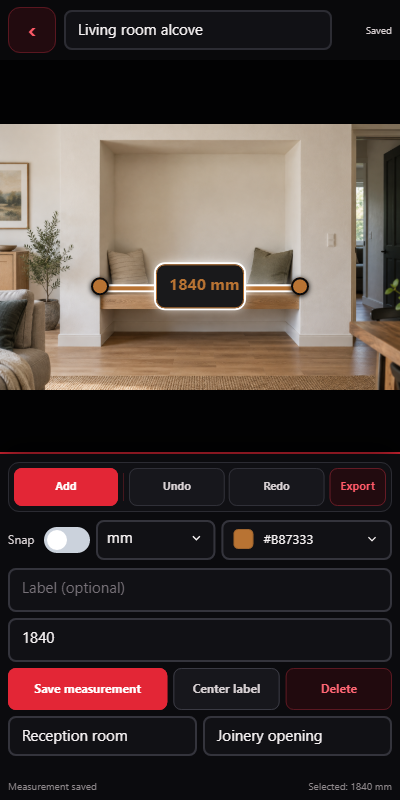
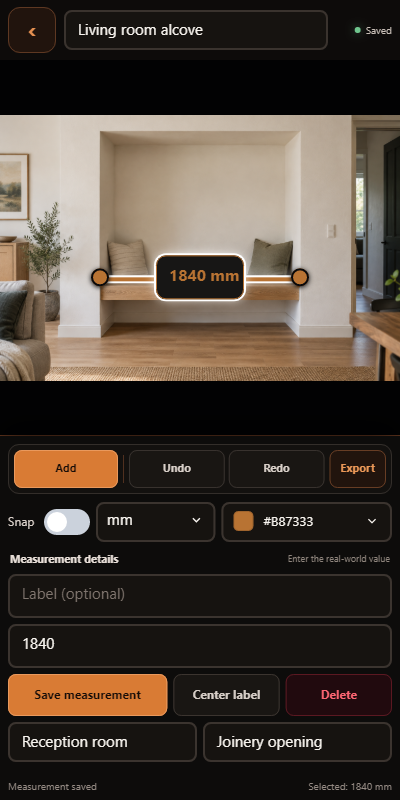
Polish UI and prepare 0.2.0 alpha

diff --git a/src/AnnoTape.App/Assets/AnnoTape.css b/src/AnnoTape.App/Assets/AnnoTape.css
@@ -1,62 +1,67 @@
 * { box-sizing:border-box; }
 body {
-  margin:0; background:#050506; color:#f7f3f4; font-family:sans-serif;
-  --cupri-accent:#e32636; --cupri-surface:#111115; --cupri-border:#34343c;
-  --cupri-text:#f7f3f4; --cupri-muted:#9f989b; --cupri-hover:#251014;
+  margin:0; background:#070605; color:#f8f4ef; font-family:"Segoe UI",sans-serif;
+  --cupri-accent:#d87932; --cupri-surface:#151311; --cupri-border:#3b342f;
+  --cupri-text:#f8f4ef; --cupri-muted:#aaa19a; --cupri-hover:#2a1b12;
 }
-.app { width:100%; min-height:100vh; background:#050506; }
+.app { width:100%; min-height:100vh; background:#070605; }
 
 /* Home */
-.home { min-height:100vh; flex-direction:column; align-items:center; padding:24px 18px 16px; gap:18px; }
+.home { min-height:100vh; flex-direction:column; align-items:center; padding:26px 18px 18px; gap:16px; background:#070605; }
 .home > .brand,.home > .hero,.home > .recent,.home > .privacy { width:100%; max-width:520px; }
-.brand { display:flex; align-items:center; justify-content:center; gap:13px; }
+.brand { display:flex; align-items:center; justify-content:flex-start; gap:13px; padding:0 4px; }
 .brand h1 { margin:0; font-size:27px; line-height:1; }
-.brand span { color:#9f989b; font-size:12px; }
+.brand span { color:#a89f98; font-size:11px; }
 .mark {
-  width:48px; height:48px; border-radius:13px;
-  box-shadow:0 8px 24px #e3263640;
+  width:48px; height:48px; border-radius:14px; border:1px solid #59301f;
+  box-shadow:0 8px 24px #b85b273d;
 }
 .hero {
-  display:flex; flex-direction:column; align-items:stretch; gap:11px; padding:22px 18px; border-radius:18px;
-  background:#0d0d10; border:1px solid #3b171c; box-shadow:0 14px 32px #00000066;
+  display:flex; flex-direction:column; align-items:stretch; gap:11px; padding:23px 18px 17px; border-radius:20px;
+  background:#12100f; border:1px solid #4a2a1c; box-shadow:0 16px 36px #00000070;
 }
-.eyebrow { color:#ff4656; font-size:10px; font-weight:bold; text-align:center; }
+.eyebrow { color:#e99450; font-size:9px; font-weight:bold; text-align:center; }
 .hero h2 { margin:0; font-size:30px; line-height:1.08; text-align:center; }
-.hero p { color:#aaa3a5; line-height:1.42; margin:0 0 7px; text-align:center; }
+.hero p { color:#b8afa8; line-height:1.46; margin:0 0 7px; text-align:center; }
 cupri-button { min-height:48px; }
 .button-label { display:block; white-space:nowrap; }
-.home .cupri-button { display:flex; align-items:center; justify-content:center; text-align:center; border-radius:11px; }
-.primary { background:#e32636; color:#fff; box-shadow:0 7px 18px #e3263638; }
+.home .cupri-button { display:flex; align-items:center; justify-content:center; text-align:center; border-radius:12px; }
+.primary { background:#db7d35; border-color:#e79655; color:#190e08; box-shadow:0 8px 20px #b95c2938; }
+.home .pick-photo { background:#191512; border-color:#60402d; color:#efb17c; }
+.hero-notes { display:flex; align-items:center; justify-content:center; gap:15px; margin-top:2px; color:#8e8279; font-size:8px; font-weight:bold; }
 .recent {
-  display:flex; flex-direction:column; gap:8px; padding:16px; border-radius:15px;
-  background:#0b0b0e; border:1px solid #242429;
+  display:flex; flex-direction:column; gap:9px; padding:16px; border-radius:16px;
+  background:#0e0d0c; border:1px solid #2f2a27;
 }
 .section-title { display:flex; align-items:center; justify-content:space-between; }
-.section-title span { color:#e32636 !important; font-size:9px !important; font-weight:bold; white-space:nowrap; }
+.section-title span { color:#d88a4f !important; font-size:9px !important; font-weight:bold; white-space:nowrap; }
 .recent > span { text-align:center; }
 .recent-row {
-  min-height:50px; display:flex; flex-direction:column; justify-content:center; padding:8px 11px;
-  border-radius:9px; background:#151519; border:1px solid #4b1a20;
+  min-height:54px; display:flex; flex-direction:row; align-items:center; justify-content:space-between; gap:12px; padding:9px 12px;
+  border-radius:11px; background:#181512; border:1px solid #4d3324;
 }
-.recent span,.privacy { color:#969093; font-size:12px; }
-.privacy { margin-top:auto; text-align:center; }
+.recent-copy { min-width:0; display:flex; flex-direction:column; gap:2px; }
+.recent-open { flex:none; color:#dd9155 !important; font-size:10px !important; font-weight:bold; }
+.recent span,.privacy { color:#9e958e; font-size:12px; }
+.privacy { margin-top:auto; text-align:center; font-size:11px; }
 
 /* Editor */
-.editor { position:relative; width:100%; height:100vh; flex-direction:column; overflow:scroll; background:#050506; }
-header {
+.editor { position:relative; width:100%; height:100vh; flex-direction:column; overflow:scroll; background:#050403; }
+.topbar {
   height:60px; min-height:60px; display:flex; align-items:center; gap:8px; padding:7px 8px;
-  background:#09090b; box-shadow:0 2px 0 #e32636;
+  background:#0d0b0a; box-shadow:0 1px 0 #6d3b21,0 7px 20px #00000070;
 }
 .title { flex:1; min-width:80px; }
-header .cupri-textfield { background:#111115; border-color:#2c2c33; }
-.save-state { font-size:10px; color:#d7cfd1; width:52px; text-align:right; white-space:nowrap; }
+.topbar .cupri-textfield { background:#161310; border-color:#3a332e; }
+.save-state { width:56px; display:flex; align-items:center; justify-content:flex-end; gap:5px; color:#c8bfb7; font-size:10px; white-space:nowrap; }
+.save-indicator { width:6px; height:6px; border-radius:3px; background:#6fc58d; box-shadow:0 0 8px #6fc58d70; }
 .stage { position:relative; flex:1; min-height:80px; background:#020203; overflow:hidden; }
 .empty {
   position:absolute; left:0; top:0; width:100%; height:100%; padding:24px; flex-direction:column;
   align-items:center; justify-content:center; gap:7px; color:#aaa3a5; text-align:center;
 }
-.empty b { width:100%; color:#f7f3f4; font-size:18px; text-align:center; }
-.empty span { width:100%; color:#8f898c; font-size:12px; text-align:center; }
+.empty b { width:100%; color:#f8f4ef; font-size:19px; text-align:center; }
+.empty > span { width:100%; color:#9d948d; font-size:12px; text-align:center; }
 .empty-illustration { flex:none; width:130px; height:76px; margin-bottom:4px; }
 .empty-actions { width:72%; display:flex; flex-direction:column; gap:9px; margin-top:10px; }
 .empty-actions .cupri-button { display:flex; align-items:center; justify-content:center; text-align:center; }
@@ -70,75 +75,79 @@ header .cupri-textfield { background:#111115; border-color:#2c2c33; }
   position:absolute; left:13px; top:13px; width:18px; height:18px; border-radius:9px;
   background:#b87333; border:2px solid #09090b; box-shadow:0 1px 5px #000;
 }
-.measure-label { position:absolute; min-height:44px; min-width:44px; padding:9px 12px; border-radius:9px; background:#09090bee; color:#b87333; font-weight:bold; white-space:nowrap; border:1px solid #b87333; }
+.measure-label { position:absolute; min-height:44px; min-width:44px; padding:9px 12px; border-radius:10px; background:#0b0908f2; color:#b87333; font-weight:bold; white-space:nowrap; border:1px solid #b87333; box-shadow:0 4px 14px #00000099; }
 .dimension-line.selected { box-shadow:0 0 0 2px #fff,0 0 12px #fff; }
 .measure-label.selected { box-shadow:0 0 0 2px #fff,0 0 12px #fff; }
 
 /* Compact editor dock */
 .inspector {
   height:198px; min-height:198px; display:flex; flex-direction:column; gap:6px; padding:8px;
-  background:#0b0b0e; box-shadow:0 -2px 0 #e32636, 0 -10px 28px #0000008c;
+  background:#0d0c0b; box-shadow:0 -1px 0 #6d3b21, 0 -12px 30px #00000099;
 }
 .inspector.empty-project { height:96px; min-height:96px; }
-.inspector.has-selection { height:346px; min-height:346px; }
-.tools,.draw-options,.snap-option,.selection,.selection-label,.selection-value,.selection-actions,.status-row { display:flex; align-items:center; gap:6px; }
+.inspector.has-selection { height:364px; min-height:364px; }
+.tools,.draw-options,.snap-option,.selection,.selection-heading,.selection-label,.selection-value,.selection-actions,.status-row { display:flex; align-items:center; gap:6px; }
 .tools { width:100%; }
 .draw-options { width:100%; min-height:44px; }
-.snap-option { flex:none; min-width:82px; color:#d8d1d3; font-size:12px; }
+.snap-option { flex:none; min-width:82px; color:#d9d0c9; font-size:12px; }
 .snap-option span { flex:1; }
 .global-unit { flex:0.7; width:0; min-width:0; }
 .global-unit .cupri-select-trigger { width:100%; min-width:0; min-height:40px; padding:7px 9px; }
 .line-colour { flex:1; width:0; min-width:0; }
-.line-colour .cupri-color-trigger { width:100%; min-width:0; min-height:40px; padding:7px 10px; background:#111115; border-color:#34343c; }
+.line-colour .cupri-color-trigger { width:100%; min-width:0; min-height:40px; padding:7px 10px; background:#161310; border-color:#3b342f; }
 .selection { width:100%; flex-direction:column; align-items:stretch; }
+.selection-heading { width:100%; min-height:18px; justify-content:space-between; padding:0 2px; }
+.selection-heading b { color:#e8dfd8; font-size:11px; }
+.selection-heading span { color:#8f857d; font-size:9px; }
 .selection-label,.selection-value,.selection-actions { width:100%; }
 .details { display:flex; gap:6px; }.details cupri-textfield { flex:1; min-width:80px; }
-.cupri-textfield,.cupri-select-trigger { background:#111115; border-color:#34343c; color:#f7f3f4; }
-.cupri-tf-ph { color:#777178; }
-.cupri-select-list { background:#111115; border-color:#34343c; }
+.cupri-textfield,.cupri-select-trigger { background:#161310; border-color:#3b342f; color:#f8f4ef; }
+.cupri-tf-ph { color:#80766f; }
+.cupri-select-list { background:#161310; border-color:#3b342f; }
 .back-home.cupri-button {
   flex:none; width:48px; height:46px; min-height:46px; padding:0; border-radius:12px;
-  display:flex; align-items:center; justify-content:center; background:#220b0f; border:1px solid #5a1720;
-  color:#ff5967; font-size:24px; box-shadow:none;
+  display:flex; align-items:center; justify-content:center; background:#21140d; border:1px solid #5e3822;
+  color:#e79151; font-size:24px; box-shadow:none;
 }
 .tools.cupri-toolbar {
   width:100%; min-width:0; padding:5px; gap:5px; border-radius:11px;
-  background:#101014; border:1px solid #2b2b32;
+  background:#13110f; border:1px solid #332e2a;
 }
 .tools .cupri-toolbar-group { min-width:0; gap:4px; }
 .tools .history-tools { flex:1; }
-.tools .tool-divider { width:1px; height:28px; margin:3px 0; background:#45171d; }
+.tools .tool-divider { width:1px; height:28px; margin:3px 0; background:#50301f; }
 .tools .cupri-button {
   min-width:0; min-height:38px; padding:11px 10px 5px; border-radius:8px; display:flex;
   align-items:center; justify-content:center; font-size:11px; text-align:center; white-space:nowrap; box-shadow:none;
 }
-.tools .add-measurement { min-width:82px; background:#e32636; border:1px solid #e32636; color:#fff; }
-.tools .add-measurement.active { background:#ff3347; border-color:#ff6673; box-shadow:0 0 0 2px #ff334733; }
-.tools .history-tools .cupri-button { flex:1; background:#17171c; border:1px solid #303038; color:#d8d1d3; }
-.tools .open-export { background:#220b0f; border:1px solid #651b25; color:#ff5967; }
+.tools .add-measurement { min-width:82px; background:#d97b34; border:1px solid #e9995d; color:#190e08; }
+.tools .add-measurement.active { background:#ed9550; border-color:#ffc08a; box-shadow:0 0 0 2px #ed955033; }
+.tools .history-tools .cupri-button { flex:1; background:#191613; border:1px solid #38322e; color:#d8cfc8; }
+.tools .open-export { background:#21140d; border:1px solid #673d24; color:#eb9857; }
 .label-input { flex:1; width:0; min-width:0; }.value-input { flex:1; width:0; min-width:0; }
 .selection-label .cupri-textfield,.selection-value .cupri-textfield,.selection-value .cupri-select-trigger { min-height:44px; }
 .unit-input .cupri-select-trigger { width:100%; min-width:0; }
 .selection-actions .cupri-button { min-height:42px; padding:13px 8px 7px; display:flex; align-items:center; justify-content:center; font-size:12px; text-align:center; }
-.selection-actions .save-value { flex:1.6; background:#e32636; border:1px solid #e32636; color:#fff; }
-.selection-actions .center-label { flex:1; min-width:0; background:#17171c; border:1px solid #3a3a43; color:#d8d1d3; }
+.selection-actions .save-value { flex:1.6; background:#d97b34; border:1px solid #e9995d; color:#190e08; }
+.selection-actions .center-label { flex:1; min-width:0; background:#191613; border:1px solid #3b342f; color:#d8cfc8; }
 .selection-actions .delete-measurement { flex:1; background:#210a0e; border:1px solid #5b1821; color:#ff6673; }
 .status-row { min-width:0; margin-top:auto; }
-.status,.selection-summary { color:#8f898c; font-size:10px; white-space:nowrap; overflow:hidden; }
+.status,.selection-summary { color:#958b84; font-size:10px; white-space:nowrap; overflow:hidden; }
 .status { flex:1; min-width:0; }.selection-summary { flex:none; text-align:right; }
 
 /* Export bottom sheet uses CupriFace's shelf overlay. */
-.export-shelf .cupri-shelf-panel { background:#0d0d10; box-shadow:0 -1px 0 #521820, 0 -18px 48px #000000cc; }
+.export-shelf .cupri-shelf-panel { background:#100e0d; box-shadow:0 -1px 0 #63371f, 0 -18px 48px #000000cc; }
 .export-shelf .cupri-shelf-inner { padding:14px 18px 24px; }
 .export-shelf .cupri-shelf-griprow { margin-bottom:12px; }
-.export-shelf .cupri-shelf-grip { background:#5b3035; }
-.shelf-title { color:#f7f3f4; font-size:22px; font-weight:bold; text-align:center; }
-.shelf-copy { margin-top:5px; color:#9f989b; font-size:12px; text-align:center; }
-.export-resolution,.export-destination { min-height:54px; margin-top:14px; padding:8px 11px; display:flex; align-items:center; justify-content:space-between; gap:12px; border:1px solid #34343c; border-radius:10px; background:#111115; }
+.export-shelf .cupri-shelf-grip { background:#70432a; }
+.shelf-eyebrow { color:#dc8847; font-size:9px; font-weight:bold; text-align:center; }
+.shelf-title { margin-top:4px; color:#f8f4ef; font-size:22px; font-weight:bold; text-align:center; }
+.shelf-copy { margin-top:5px; color:#aaa19a; font-size:12px; text-align:center; }
+.export-resolution,.export-destination { min-height:54px; margin-top:14px; padding:8px 11px; display:flex; align-items:center; justify-content:space-between; gap:12px; border:1px solid #3b342f; border-radius:11px; background:#161310; }
 .export-destination { margin-top:8px; }
 .export-resolution > div,.export-destination > div { display:flex; flex-direction:column; gap:3px; }
 .export-resolution b,.export-destination b { font-size:12px; }
-.export-resolution span,.export-destination span { color:#9f989b; font-size:10px; }
+.export-resolution span,.export-destination span { color:#9e958e; font-size:10px; }
 .export-resolution .cupri-switch,.export-destination .cupri-switch { flex:none; }
 .export-options { display:flex; gap:10px; margin-top:10px; }
 .export-option.cupri-button {
@@ -146,11 +155,13 @@ header .cupri-textfield { background:#111115; border-color:#2c2c33; }
   flex-direction:column; align-items:flex-start; justify-content:center; gap:5px; text-align:left;
 }
 .export-option b { font-size:18px; }
-.export-option span { color:#f0c8cc; font-size:10px; font-weight:normal; white-space:nowrap; }
-.export-option.ghost { background:#160d0f; border:1px solid #651b25; color:#ff5967; }
+.export-option { background:#d97b34; border-color:#e9995d; color:#190e08; }
+.export-option span { color:#3b2114; font-size:10px; font-weight:normal; white-space:nowrap; }
+.export-option.ghost { background:#21140d; border:1px solid #673d24; color:#eb9857; }
+.export-option.ghost span { color:#caa388; }
 .shelf-cancel.cupri-button {
   width:100%; min-height:44px; margin-top:10px; padding:12px 10px 8px; display:flex; align-items:center; justify-content:center;
-  background:transparent; border:1px solid #34343c; color:#aaa3a5; text-align:center;
+  background:transparent; border:1px solid #3b342f; color:#aaa19a; text-align:center;
 }
 @media (max-width:360px) {
   .tools.cupri-toolbar { gap:3px; padding:4px; }

diff --git a/src/AnnoTape.App/Assets/AnnoTape.html b/src/AnnoTape.App/Assets/AnnoTape.html
@@ -3,27 +3,28 @@
     <main class="home" style="display:{{HomeDisplay}}">
       <div class="brand"><cupri-image class="mark" src="Assets/annotape-icon.png" alt=""></cupri-image><div><h1>AnnoTape</h1><span>annotate + tape measure</span></div></div>
       <div class="hero">
-        <span class="eyebrow">PHOTO MEASUREMENT</span>
+        <span class="eyebrow">PHOTO MEASUREMENT NOTEBOOK</span>
         <h2>Measure what matters.</h2>
         <p>Capture a photo, draw a dimension, and enter the real value. Your work stays on this device.</p>
         <cupri-button class="take-photo primary" aria-label="Take a photo"><span class="button-label">Take photo</span></cupri-button>
         <cupri-button class="pick-photo" variant="ghost" aria-label="Choose a photo"><span class="button-label">Choose photo</span></cupri-button>
+        <div class="hero-notes" aria-label="One photo per project, real values, offline"><span>ONE PHOTO</span><span>REAL VALUES</span><span>OFFLINE</span></div>
       </div>
       <div class="recent">
         <div class="section-title"><b>Recent projects</b><span>LOCAL</span></div>
         <span>{{RecentSummary}}</span>
         <div class="recent-row" data-repeat="RecentProjects" data-open-project="{{Id}}" role="button" aria-label="Open {{Title}}">
-          <b>{{Title}}</b><span>{{Subtitle}}</span>
+          <div class="recent-copy"><b>{{Title}}</b><span>{{Subtitle}}</span></div><span class="recent-open">Open</span>
         </div>
       </div>
       <p class="privacy">Offline by design · no account · no inferred measurements</p>
     </main>
 
     <main class="editor" style="display:{{EditorDisplay}}">
-      <header>
+      <header class="topbar">
         <cupri-button class="back-home" variant="ghost" aria-label="Back to projects">‹</cupri-button>
         <cupri-textfield class="title" value="{{ProjectTitle}}" aria-label="Project title"></cupri-textfield>
-        <span class="save-state">{{SaveState}}</span>
+        <span class="save-state"><span class="save-indicator" aria-hidden="true"></span>{{SaveState}}</span>
       </header>
 
       <div class="stage" data-editor="photo editor" aria-label="Photo editor. Pinch to zoom or drag to pan.">
@@ -65,6 +66,7 @@
           <cupri-color class="line-colour" value="{{LineColour}}" open="{{ColourOpen}}" aria-label="Measurement colour"></cupri-color>
         </div>
         <div class="selection" style="display:{{InspectorDisplay}}">
+          <div class="selection-heading"><b>Measurement details</b><span>Enter the real-world value</span></div>
           <div class="selection-label">
             <cupri-textfield class="label-input" value="{{MeasurementLabel}}" placeholder="Label (optional)" aria-label="Measurement label"></cupri-textfield>
           </div>
@@ -87,6 +89,7 @@
   </div>
 
   <cupri-shelf class="export-shelf" open="{{ExportShelfOpen}}" blur="true" aria-label="Export image">
+    <div class="shelf-eyebrow">READY TO SHARE</div>
     <div class="shelf-title">Export image</div>
     <div class="shelf-copy">Choose the format for the annotated photo.</div>
     <div class="export-resolution">

diff --git a/src/AnnoTape.App/Editor/EditorViewModel.cs b/src/AnnoTape.App/Editor/EditorViewModel.cs
@@ -12,7 +12,7 @@ public sealed partial class EditorViewModel
     private const double HeaderHeight = 60;
     private const double EmptyInspectorHeight = 96;
     private const double CompactInspectorHeight = 198;
-    private const double SelectionInspectorHeight = 346;
+    private const double SelectionInspectorHeight = 364;
 
     public string Page { get; set; } = "home";
     public string HomeDisplay => Page == "home" ? "flex" : "none";

diff --git a/README.md b/README.md
@@ -1,5 +1,7 @@
 # AnnoTape
 
+<p align="center"><img src="docs/images/annotape-icon.png" width="128" alt="AnnoTape app icon"></p>
+
 AnnoTape is an offline Android measurement notebook with a Windows desktop host for development and layout testing. Capture or choose a photo, draw optionally angle-snapped dimension lines over it, choose annotation colours and image-wide units, position attached or free labels, enter the real measurements, and share or save an annotated image.
 
 The entered value is authoritative. AnnoTape does not infer physical dimensions from ordinary photo pixels and never labels pixel-derived values as measurements.
@@ -10,13 +12,13 @@ The entered value is authoritative. AnnoTape does not infer physical dimensions 
 
 The architecture spike and testable MVP are implemented. The portable editor, SQLite persistence, recovery state, camera/photo-picker boundary, and full-resolution PNG/JPEG export compile. Automated tests pass. Camera interoperability, process-death return, gestures, memory limits, and TalkBack still require representative Android hardware before a release claim.
 
-Version 0.1 uses one photo per project. The schema already supports ordered multi-photo projects, so adding a document navigator does not require a migration.
+The 0.2 alpha uses one photo per project. The schema already supports ordered multi-photo projects, so adding a document navigator does not require a migration.
 
 ## Stack
 
 - C# and .NET 10
 - Plain .NET for Android (no MAUI, WebView, JavaScript, or browser shell)
-- [CupriFace](https://github.com/Wixely/CupriFace) engine/shell `0.24.1-annotape.4` from pinned source; Android host `0.24.0`
+- [CupriFace](https://github.com/Wixely/CupriFace) engine, shell, and Android host `0.24.1-annotape.5` from pinned source
 - SQLite with Dapper and DnaX `10.0.0-alpha.2` checksummed migrations
 - SkiaSharp source-resolution export
 - Minimum Android API 24; Android 13+ uses the system photo picker and earlier releases use `ACTION_OPEN_DOCUMENT`
@@ -33,7 +35,7 @@ Prerequisites are .NET SDK `10.0.300`, the .NET Android workload, and a clean Dn
 git/
   AnnoTape/
   DnaX/        # commit ab1471dd0caa3775f3bd26f9f12bf04d7df8752e
-  CupriFace/   # commit 9e4d6208450b777f0bfe361baa1f34d1a89acd7c
+  CupriFace/   # commit 0cc37412c59994f2f4d029a73222886e71ef7210
 ```
 
 Then run:
@@ -47,10 +49,9 @@ dotnet build src\AnnoTape.Desktop\AnnoTape.Desktop.csproj -c Debug
 dotnet build src\AnnoTape.Android\AnnoTape.Android.csproj -c Debug
 ```
 
-The preparation scripts populate the ignored repository-local `.packages` feed. DnaX and the
-CupriFace engine/shell are built from pinned checkouts; the unchanged CupriFace Android host is
-downloaded from the official `0.24.0` release and verified by SHA-256. Pass `-DnaXRoot` or
-`-CupriFaceRoot` when either checkout is elsewhere.
+The preparation scripts populate the ignored repository-local `.packages` feed. DnaX and all three
+CupriFace packages are built from pinned checkouts. Pass `-DnaXRoot` or `-CupriFaceRoot` when either
+checkout is elsewhere.
 
 GitHub Actions runs the Release tests, builds the Windows desktop layout host, and publishes a
 downloadable ARM64 test-signed APK plus its SHA-256 checksum on every push and pull request. The

diff --git a/artwork/brand/README.md b/artwork/brand/README.md
@@ -1,19 +1,21 @@
 # AnnoTape brand artwork
 
-The PNG files in this directory are the full-resolution masters generated with OpenAI's built-in image generation tool on 2026-09-13. Optimized application copies live in `src/AnnoTape.App/Assets`.
+The PNG files in this directory are the full-resolution masters generated with OpenAI's built-in image generation tool. Optimized application copies live in `src/AnnoTape.App/Assets`. The app icon was regenerated on 2026-10-04 for Android adaptive-icon masks.
 
 ## App icon prompt
 
 ```text
 Use case: logo-brand
 Asset type: master app icon for Android launcher, Windows taskbar, and in-app brand mark
-Primary request: create a polished square icon for AnnoTape, a photo measurement and annotation app. Show a single bold abstract dimension line with two circular endpoint handles and a subtle tape-measure or annotation-tag silhouette, forming a memorable geometric symbol.
-Style/medium: crisp vector-like flat graphic rendered as a high-resolution raster; minimal, modern, professional utility app
-Composition/framing: centered symbol, generous safe area, strong silhouette readable at 24px, rounded-square dark graphite background filling the canvas
-Color palette: near-black graphite #09090B, AnnoTape red #E32636, warm copper #B87333, tiny white highlight only if needed
-Lighting/mood: flat with very restrained depth, confident and precise
-Constraints: no words, no letters, no numbers, no ruler tick labels, no mockup device, no external background, no watermark; exact square composition; avoid thin fragile lines; keep all important content inside the central 70% safe zone
+Primary request: create a cleaner, more iconic AnnoTape mark combining a compact tape-measure silhouette with one diagonal dimension line and two endpoint dots.
+Style/medium: crisp flat vector-like graphic rendered as a high-resolution square raster; minimal professional utility-app identity
+Composition/framing: full-bleed graphite background with no inset tile or frame; centered compact symbol; all important content inside the central safe zone so it remains balanced under circular, squircle, and rounded-square masks; strong silhouette readable at 24px
+Color palette: near-black graphite #09090B, coral red #EF3348, warm copper #C97935, tiny warm-white endpoint highlights
+Lighting/mood: restrained depth, confident and precise
+Constraints: no words, letters, numbers, ruler markings, external border, mockup device, or watermark; avoid thin lines, tiny details, and edge protrusions
 ```
+
+The Android launcher uses matching vector foreground and monochrome resources so circular masks and Android 13+ themed icons retain the same compact silhouette.
 
 ## Empty-state illustration prompt
 
